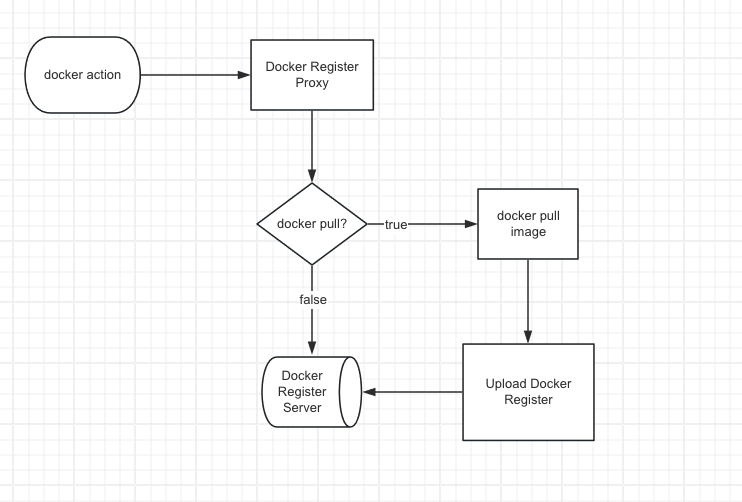
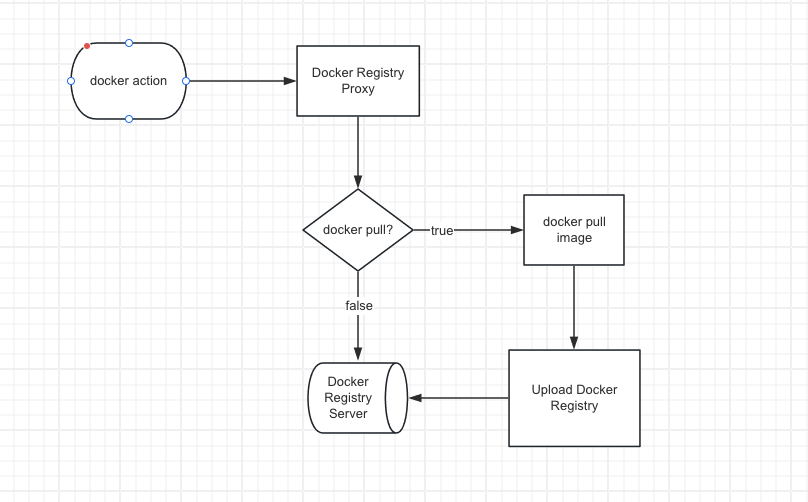
docs: readme

Changed region(s): [[0.031, 0.0598, 0.8059, 0.8964]]

diff --git a/README.md b/README.md
@@ -16,15 +16,15 @@ chmod +x ctl
 
 ## Features
 
-1. Docker Register
+1. Docker Registry
 
 ## Upcoming Features
 
-1. NPM Register
+1. NPM Registry
 
 ## Principle
 
-![Docker Register Proxy](images/docker-proxy.png)
+![Docker Registry Proxy](images/docker-proxy.png)
 
 ## Credits
 

diff --git a/i18n/README.us-en.md b/i18n/README.us-en.md
@@ -16,15 +16,15 @@ chmod +x ctl
 
 ## Features
 
-1. Docker Register
+1. Docker Registry
 
 ## Upcoming Features
 
-1. NPM Register
+1. NPM Registry
 
 ## Principle
 
-![Docker Register Proxy](images/docker-proxy.png)
+![Docker Registry Proxy](images/docker-proxy.png)
 
 ## Credits
 
